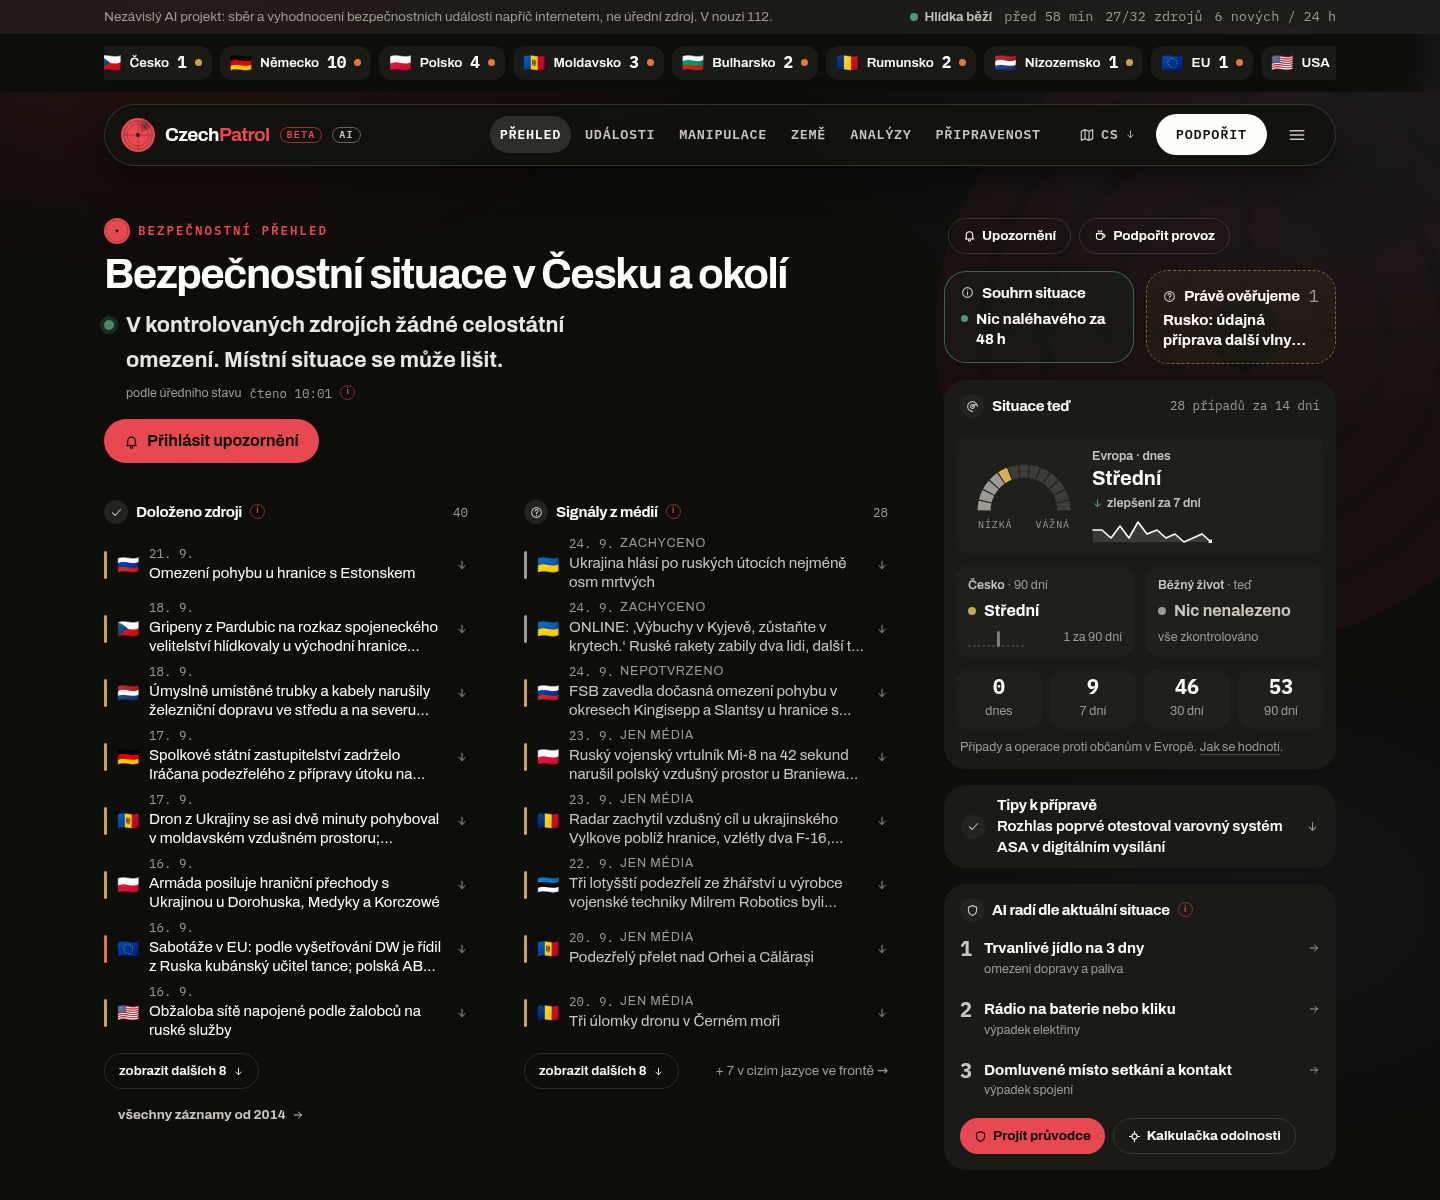
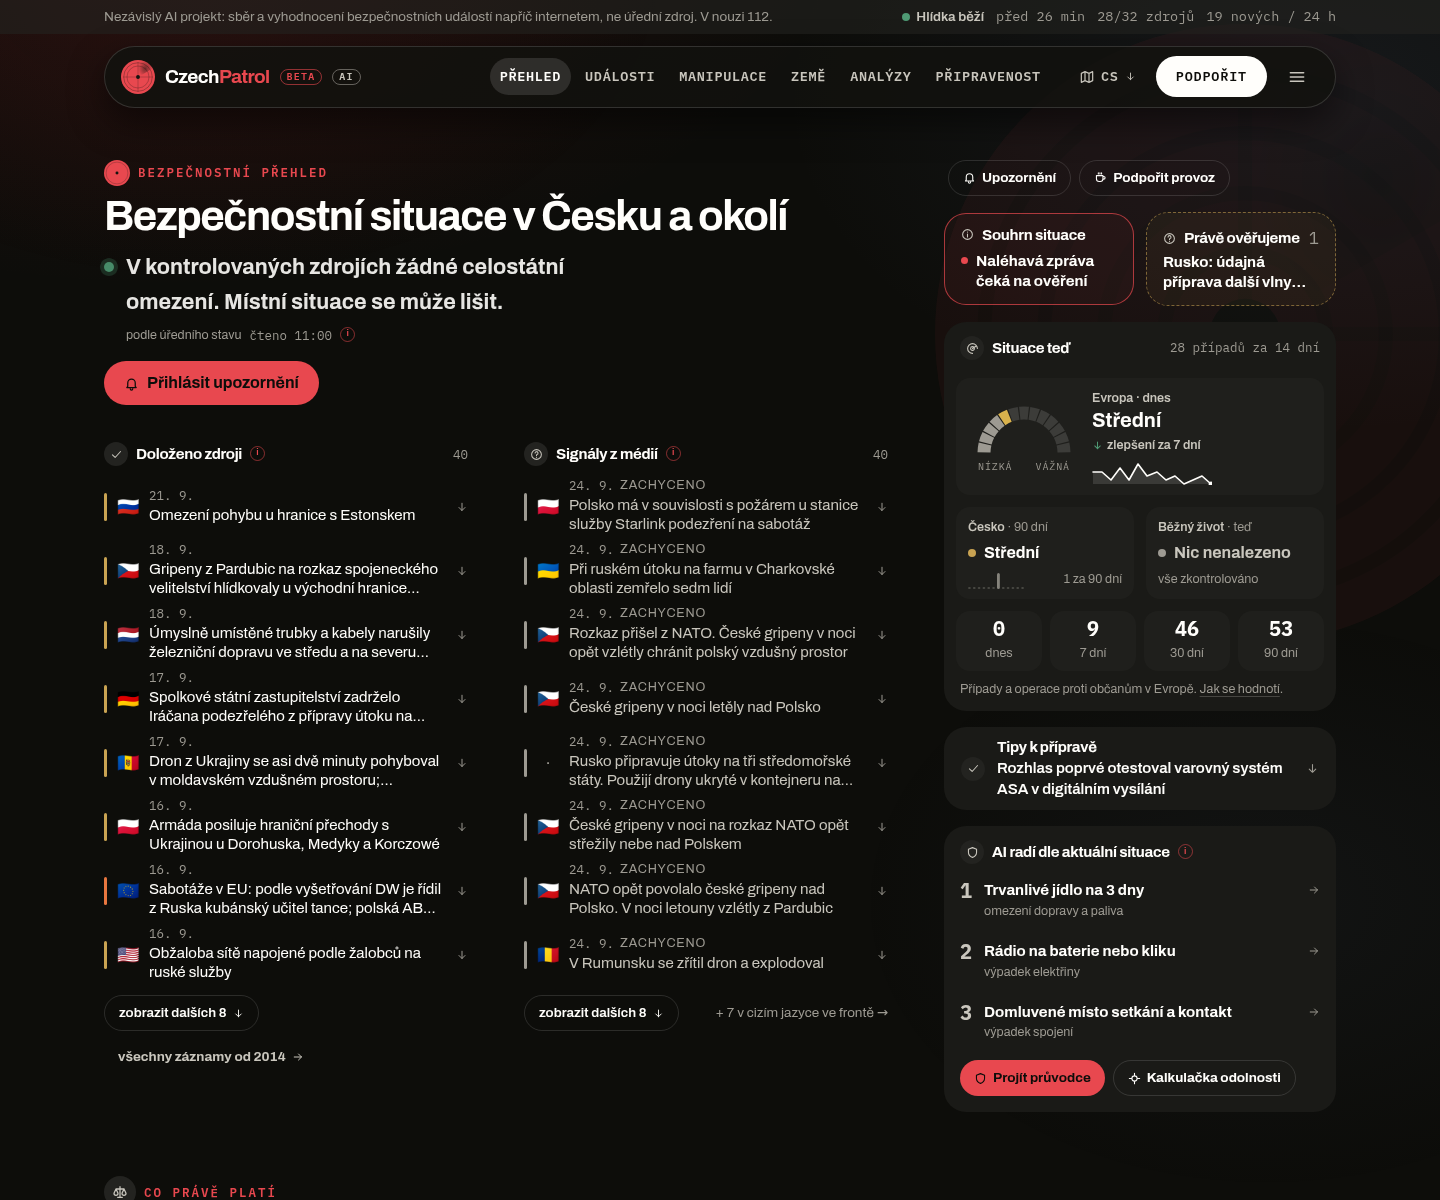
Běžící pás zemí pryč; zdroje: deníky zemí Evropy a okolí
- Pás zemí mezi lištou původu a menu odstraněn i s komponentami
  (pas-zemi, pas-beh-klient); země mají vlastní stránku a kartu.
- Sběr: 38 nových kanálů redakcí — celoevropské (Guardian, Politico
  Europe, Euractiv, France 24, Euronews), Německo, Rakousko, Švýcarsko,
  Slovensko, Polsko, Maďarsko, Pobaltí a sever, Benelux, Francie, Itálie,
  Španělsko, Řecko, Balkán, Rumunsko, Moldavsko, Ukrajina a ruská
  nezávislá média. Přednost anglickým mutacím; pole jazyk rozšířeno.
  Které kanály neodpovídají, ukáže první běh v posledni-beh.json.

Claude-Session: https://claude.ai/code/session_01EaFEHmtj9AidFQygqHnrQV

diff --git a/sber/zdroje-udalosti.ts b/sber/zdroje-udalosti.ts
@@ -20,7 +20,8 @@ export interface ZdrojUdalosti {
   klic: string;
   nazev: string;
   url: string;
-  jazyk: "cs" | "en";
+  /* Jazyk kanálu. Síto zná slova česky a anglicky; u ostatních jazyků chytí jen to, co se píše stejně (dron, sabotaż, NATO). */
+  jazyk: "cs" | "en" | "sk" | "pl" | "de" | "fr" | "it" | "es" | "ro" | "hu" | "nl" | "sv" | "no" | "fi";
   /** Úřad nebo instituce, která věc sama oznamuje. */
   primarni: boolean;
   /*
@@ -282,6 +283,58 @@ const REDAKCE: ZdrojUdalosti[] = [
   { klic: "rtl-today", nazev: "RTL Today (Lucembursko)", url: "https://today.rtl.lu/", jazyk: "en", primarni: false, typ: "media" },
   { klic: "tasr", nazev: "TASR (Slovensko)", url: "https://www.tasr.sk/", jazyk: "cs", primarni: false, typ: "wire" },
   { klic: "bta", nazev: "BTA (státní agentura Bulharska)", url: "https://www.bta.bg/en", jazyk: "en", primarni: false, typ: "wire" },
+  /*
+    Doplněno 24. 9. 2026 (zadání provozovatelky): deníky zemí Evropy a
+    relevantního okolí. Přednost mají anglické mutace a jazyky, ve kterých
+    síto pozná slova (slovenština, polština); u němčiny, francouzštiny a
+    dalších chytí jen mezinárodní výrazy. Kanál, který nevrátí RSS, se
+    přečte jako stránka; kanál, který neodpovídá, ukáže kontrola zdrojů.
+  */
+  /* celoevropské a světové redakce */
+  { klic: "guardian-world", nazev: "The Guardian — World", url: "https://www.theguardian.com/world/rss", jazyk: "en", primarni: false, typ: "media" },
+  { klic: "politico-eu", nazev: "Politico Europe", url: "https://www.politico.eu/feed/", jazyk: "en", primarni: false, typ: "media" },
+  { klic: "euractiv", nazev: "Euractiv", url: "https://www.euractiv.com/feed/", jazyk: "en", primarni: false, typ: "media" },
+  { klic: "france24-en", nazev: "France 24 (anglicky)", url: "https://www.france24.com/en/rss", jazyk: "en", primarni: false, typ: "media" },
+  { klic: "euronews", nazev: "Euronews", url: "https://www.euronews.com/rss", jazyk: "en", primarni: false, typ: "media" },
+  /* Německo, Rakousko, Švýcarsko */
+  { klic: "tagesschau", nazev: "Tagesschau (Německo)", url: "https://www.tagesschau.de/index~rss2.xml", jazyk: "de", primarni: false, typ: "media" },
+  { klic: "spiegel-int", nazev: "Der Spiegel International", url: "https://www.spiegel.de/international/index.rss", jazyk: "en", primarni: false, typ: "media" },
+  { klic: "orf", nazev: "ORF News (Rakousko)", url: "https://rss.orf.at/news.xml", jazyk: "de", primarni: false, typ: "media" },
+  { klic: "derstandard", nazev: "Der Standard (Rakousko)", url: "https://www.derstandard.at/rss", jazyk: "de", primarni: false, typ: "media" },
+  { klic: "nzz", nazev: "NZZ (Švýcarsko)", url: "https://www.nzz.ch/recent.rss", jazyk: "de", primarni: false, typ: "media" },
+  /* Slovensko, Polsko, Maďarsko */
+  { klic: "sme", nazev: "SME (Slovensko)", url: "https://www.sme.sk/rss", jazyk: "sk", primarni: false, typ: "media" },
+  { klic: "dennikn-sk", nazev: "Denník N (Slovensko)", url: "https://dennikn.sk/feed", jazyk: "sk", primarni: false, typ: "media" },
+  { klic: "aktuality-sk", nazev: "Aktuality.sk", url: "https://www.aktuality.sk/rss/", jazyk: "sk", primarni: false, typ: "media" },
+  { klic: "tvn24", nazev: "TVN24 (Polsko)", url: "https://tvn24.pl/najnowsze.xml", jazyk: "pl", primarni: false, typ: "media" },
+  { klic: "rp-pl", nazev: "Rzeczpospolita (Polsko)", url: "https://www.rp.pl/rss_main", jazyk: "pl", primarni: false, typ: "media" },
+  { klic: "telex", nazev: "Telex (Maďarsko)", url: "https://telex.hu/rss", jazyk: "hu", primarni: false, typ: "media" },
+  { klic: "hvg", nazev: "HVG (Maďarsko)", url: "https://hvg.hu/rss", jazyk: "hu", primarni: false, typ: "media" },
+  /* Pobaltí a sever */
+  { klic: "postimees-en", nazev: "Postimees (Estonsko, anglicky)", url: "https://news.postimees.ee/rss", jazyk: "en", primarni: false, typ: "media" },
+  { klic: "lsm-en", nazev: "LSM (Lotyšsko, anglicky)", url: "https://eng.lsm.lv/rss/", jazyk: "en", primarni: false, typ: "media" },
+  { klic: "hs-fi", nazev: "Helsingin Sanomat (Finsko)", url: "https://www.hs.fi/rss/tuoreimmat.xml", jazyk: "fi", primarni: false, typ: "media" },
+  { klic: "svt", nazev: "SVT Nyheter (Švédsko)", url: "https://www.svt.se/nyheter/rss.xml", jazyk: "sv", primarni: false, typ: "media" },
+  { klic: "nrk", nazev: "NRK (Norsko)", url: "https://www.nrk.no/toppsaker.rss", jazyk: "no", primarni: false, typ: "media" },
+  /* Benelux, Francie, jih */
+  { klic: "nos", nazev: "NOS Nieuws (Nizozemsko)", url: "https://feeds.nos.nl/nosnieuwsalgemeen", jazyk: "nl", primarni: false, typ: "media" },
+  { klic: "vrt", nazev: "VRT NWS (Belgie)", url: "https://www.vrt.be/vrtnws/nl.rss.articles.xml", jazyk: "nl", primarni: false, typ: "media" },
+  { klic: "lemonde", nazev: "Le Monde (Francie)", url: "https://www.lemonde.fr/rss/une.xml", jazyk: "fr", primarni: false, typ: "media" },
+  { klic: "ansa-en", nazev: "ANSA (Itálie, anglicky)", url: "https://www.ansa.it/english/news/english_nr_rss.xml", jazyk: "en", primarni: false, typ: "wire" },
+  { klic: "repubblica", nazev: "la Repubblica (Itálie)", url: "https://www.repubblica.it/rss/homepage/rss2.0.xml", jazyk: "it", primarni: false, typ: "media" },
+  { klic: "elpais-en", nazev: "El País (Španělsko, anglicky)", url: "https://feeds.elpais.com/mrss-s/pages/ep/site/english.elpais.com/portada", jazyk: "en", primarni: false, typ: "media" },
+  { klic: "elmundo", nazev: "El Mundo (Španělsko)", url: "https://e00-elmundo.uecdn.es/elmundo/rss/portada.xml", jazyk: "es", primarni: false, typ: "media" },
+  { klic: "kathimerini-en", nazev: "Kathimerini (Řecko, anglicky)", url: "https://www.ekathimerini.com/feed/", jazyk: "en", primarni: false, typ: "media" },
+  { klic: "balkan-insight", nazev: "Balkan Insight", url: "https://balkaninsight.com/feed/", jazyk: "en", primarni: false, typ: "media" },
+  /* Rumunsko, Moldavsko, Ukrajina, ruská nezávislá média */
+  { klic: "digi24", nazev: "Digi24 (Rumunsko)", url: "https://www.digi24.ro/rss", jazyk: "ro", primarni: false, typ: "media" },
+  { klic: "g4media", nazev: "G4Media (Rumunsko)", url: "https://www.g4media.ro/feed", jazyk: "ro", primarni: false, typ: "media" },
+  { klic: "romania-insider", nazev: "Romania Insider", url: "https://www.romania-insider.com/rss", jazyk: "en", primarni: false, typ: "media" },
+  { klic: "newsmaker-md", nazev: "NewsMaker (Moldavsko)", url: "https://newsmaker.md/feed", jazyk: "ro", primarni: false, typ: "media" },
+  { klic: "ukrinform-en", nazev: "Ukrinform (anglicky)", url: "https://www.ukrinform.net/rss/block-lastnews", jazyk: "en", primarni: false, typ: "wire" },
+  { klic: "pravda-ua-en", nazev: "Ukrainska Pravda (anglicky)", url: "https://www.pravda.com.ua/eng/rss/", jazyk: "en", primarni: false, typ: "media" },
+  { klic: "meduza-en", nazev: "Meduza (anglicky)", url: "https://meduza.io/rss/en/all", jazyk: "en", primarni: false, typ: "media" },
+  { klic: "moscow-times", nazev: "The Moscow Times", url: "https://www.themoscowtimes.com/rss/news", jazyk: "en", primarni: false, typ: "media" },
 ];
 
 /** Obecné dotazy — jeden česky, jeden anglicky ke každému tématu. */

diff --git a/src/app/layout.tsx b/src/app/layout.tsx
@@ -10,9 +10,6 @@ import { Paticka } from "@/components/paticka";
 import { PruhPuvodu, UkazkaPruh } from "@/components/pruhy";
 import { PulzKratky } from "@/components/pulz-kratky";
 import { pulz } from "@/lib/pulz";
-import { incidenty, kampane } from "@/lib/data";
-import { proPas } from "@/lib/odlehci";
-import { PasZemi } from "@/components/pas-zemi";
 import { PruhVystrahy } from "@/components/vystraha";
 import { Znacka } from "@/components/znacka";
 import { SKRIPT_POHYBU } from "@/components/pohyb";
@@ -96,8 +93,6 @@ export default function RootLayout({ children }: { children: React.ReactNode }) 
         </a>
         {/* Lišta původu je první věc na stránce, nad menu: kdo to píše a kdy naposled kontroloval. */}
         <PruhPuvodu vpravo={<PulzKratky pulz={pulz()} ted={Date.now()} />} />
-        {/* Běžící pás zemí mezi lištou původu a menu (24. 9. 2026, podle zadání) — na každé stránce. */}
-        <PasZemi vse={incidenty().map(proPas)} kampane={kampane()} ted={Date.now()} />
         <Navigace />
         {/*
           Výstraha stojí nad obsahem, hned pod menu. Když platí, je to

diff --git a/src/lib/odlehci.ts b/src/lib/odlehci.ts
@@ -9,8 +9,3 @@ export function odlehci<T extends Incident>(i: T): T {
   /* První fakt a první neznámá zůstávají: úvod je ukazuje po rozbalení řádku aktualit. */
   return { ...i, fakta: i.fakta.slice(0, 1), neznameho: i.neznameho.slice(0, 1), historie: [], eskalacniSpousteče: [], deeskalacniSignaly: [], souvisejici: [], vyznam: "" };
 }
-
-/** Pro běžící pás zemí na každé stránce: jen země, data, závažnost a druh. */
-export function proPas<T extends Incident>(i: T): T {
-  return { ...odlehci(i), fakta: [], neznameho: [], titulek: "", kratkyTitulek: "", zdroje: [] };
-}
